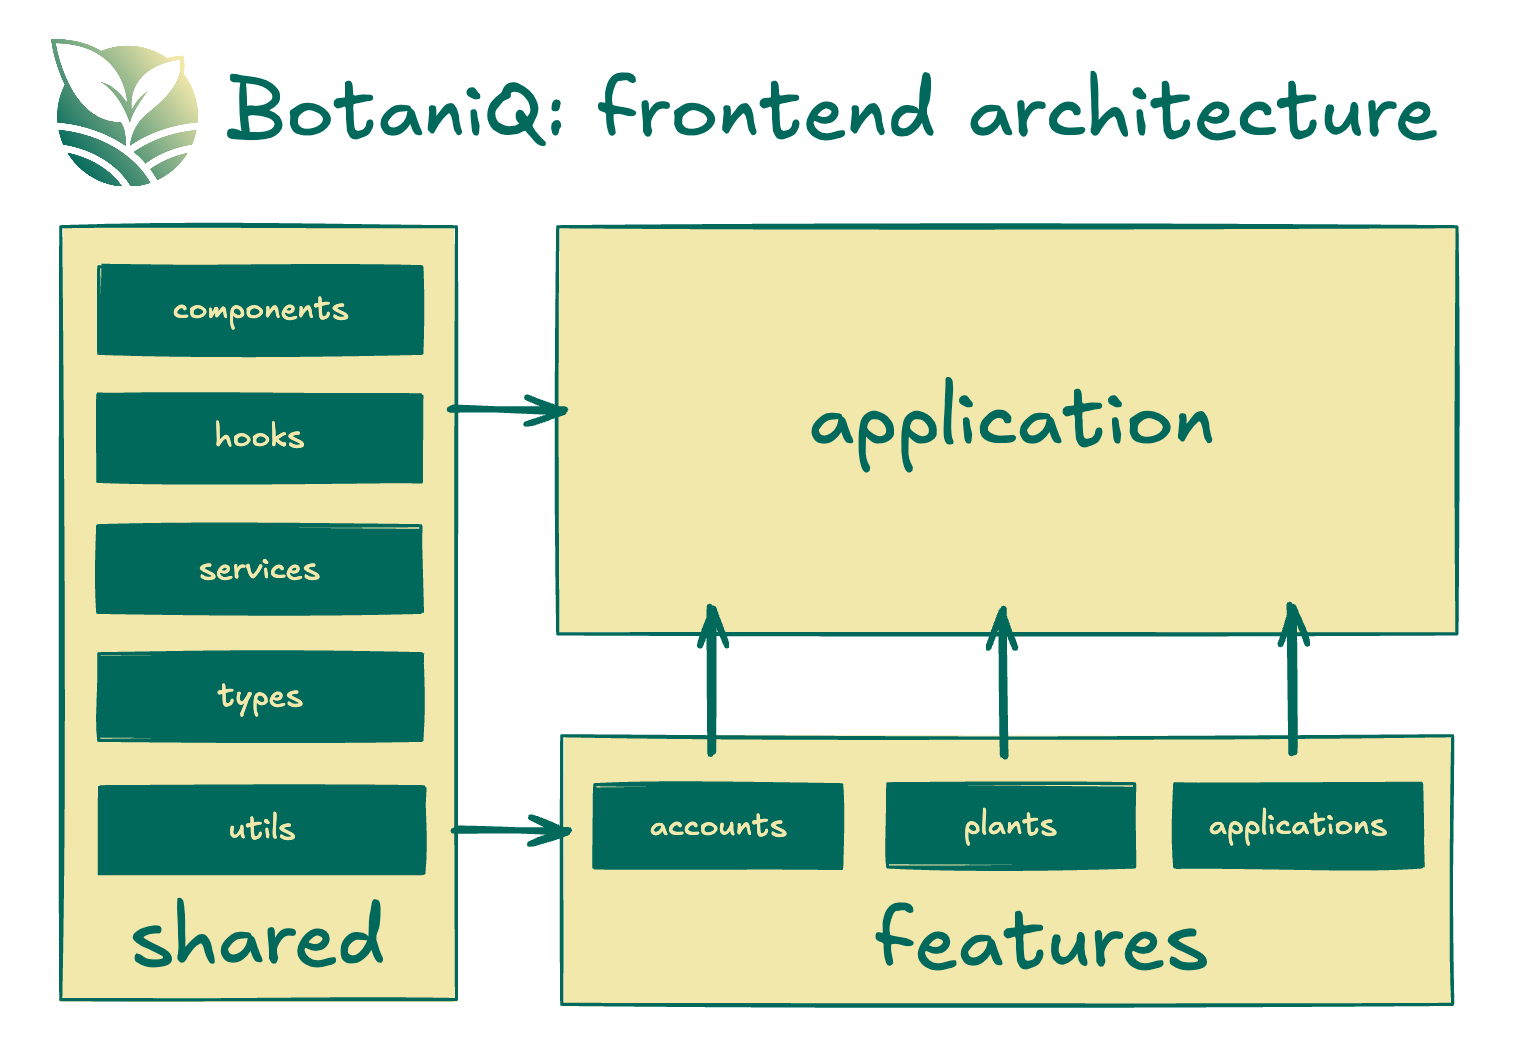
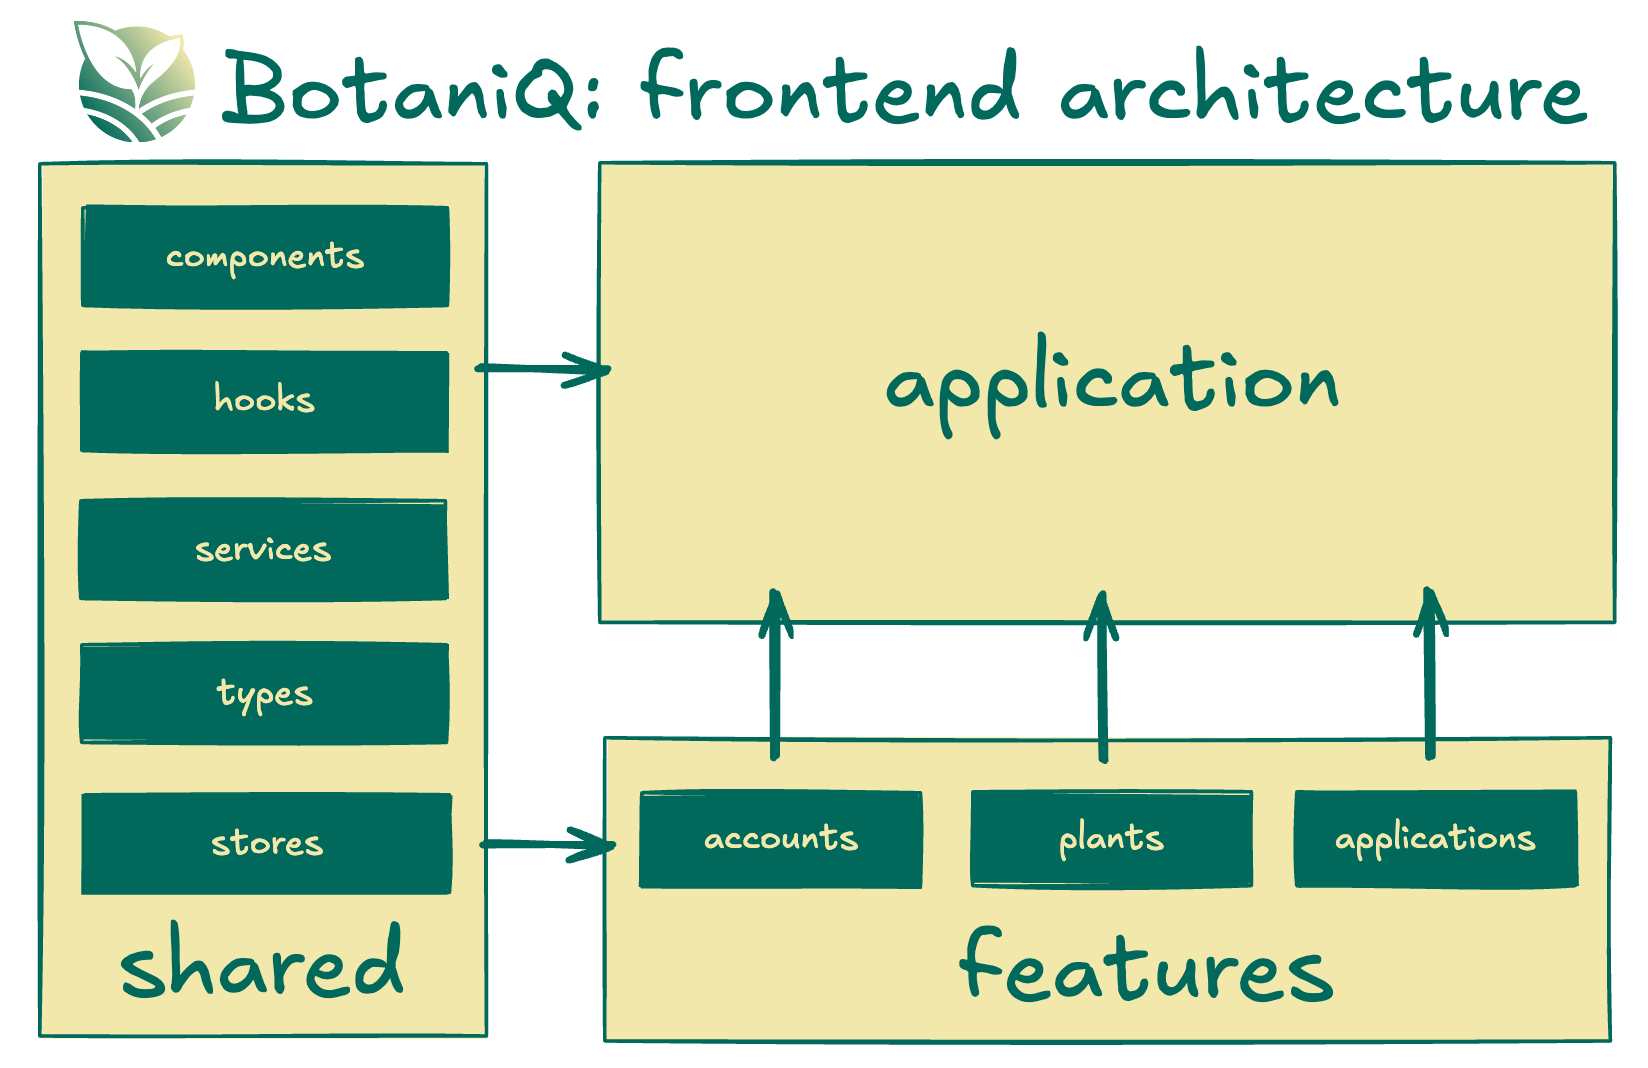
chore: improve project architecture doc

Changed region(s): [[0.0, 0.0, 0.9934, 0.9846], [0.5277, 0.3077, 0.8071, 0.4615], [0.4036, 0.8308, 0.5588, 0.8615]]

diff --git a/docs/en/developer-guide/frontend/project-structure.md b/docs/en/developer-guide/frontend/project-structure.md
@@ -1,4 +1,44 @@
 # 🗄 Project Structure
 
+Most of the application code lives in the `src` folder and looks like this:
+
+```
+src/
+┣ app/
+┃ ┣ pages/  # application pages
+┃ ┣ app-container.tsx # container that wraps the entire application with different global providers
+┃ ┣ layout/		# layout of the application 
+┃ ┗ app.tsx		# main application component
+┣ assets/		# assets folder can contain all the static files such as images, fonts, etc.
+┣ components/		# shared components used across the entire application (this components should be simple)
+┣ config/		# global configurations, exported env variables etc.
+┣ features/		# feature based modules
+┣ hooks/		 # shared hooks used across the entire application
+┣ services/  # shared services accross the entire application e.g. APIs, local storage, messaging
+┣ stores/		# global state stores
+┣ test/		# test utilities and mocks
+┣ types/		# shared types used across the application
+┣ utils/ # shared utility functions
+```
+
+For easy scalability and maintenance, organize most of the code within the features folder. Each feature folder should contain code specific to that feature, keeping things neatly separated. This approach helps prevent mixing feature-related code with shared components, making it simpler to manage and maintain the codebase compared to having many files in a flat folder structure. By adopting this method, you can enhance collaboration, readability, and scalability in the application's architecture.
+
+A feature could have the following structure:
+
+```sh
+src/features/my-feature
+┣ services         
+┣ assets      
+┣ components  
+┣ hooks       
+┣ stores     
+┣ types       
+┣ utils       
+```
+
+> NOTE: You don't need all of these folders for every feature. Only include the ones that are necessary for the feature.
+
+To make the application less convoluted is preffered for each feature to be independent, if you need to mix features please compose them at the page level. The following diagram illustrates how the architecture should work.
+
 <img src="../../../img/frontend-architecture.png" style="zoom:50%;" />
 

diff --git a/docs/en/developer-guide/frontend/components-and-styling.md b/docs/en/developer-guide/frontend/components-and-styling.md
@@ -1,0 +1,16 @@
+# 🧱 Components & Styling
+
+### Components Library
+
+Every project requires some UI components such as modals, tabs, sidebars, menus, etc. Instead of building those from scratch, you might want to use some of the existing, battle-tested component libraries.
+
+In this project we selected [Prime React](https://primereact.org/) a free and open source comprehensive UI components library.
+
+### Styling Solution
+
+To style the application we selected [Tailwind](https://tailwindcss.com/) which paradigm is based on the usage of small and reusable CSS classes as building blocks. This tool diminishes the need for custom CSS and thus increasing the consistency of the design system across the application. Also, due to its purge support, only used classes are included in production reducing the styles size which is beneficial in environments with slower internet connection.
+
+Tailwind can be integrated with Prime React by using their passthrough method to override their base theme for a custom one. For more information consult [Prime React's documentation](https://primereact.org/tailwind/)
+
+### Style Guide
+

diff --git a/docs/en/developer-guide/intro.md b/docs/en/developer-guide/intro.md
@@ -31,6 +31,8 @@ git config core.hooksPath .githooks
 
 - 🗄 [Project Structure](./frontend/project-structure.md)
 
+- 🧱 [Components & Styling](./frontend/components-and-styling.md)
+
 - 🧪 [Testing](./frontend/testing.md)
 
   
